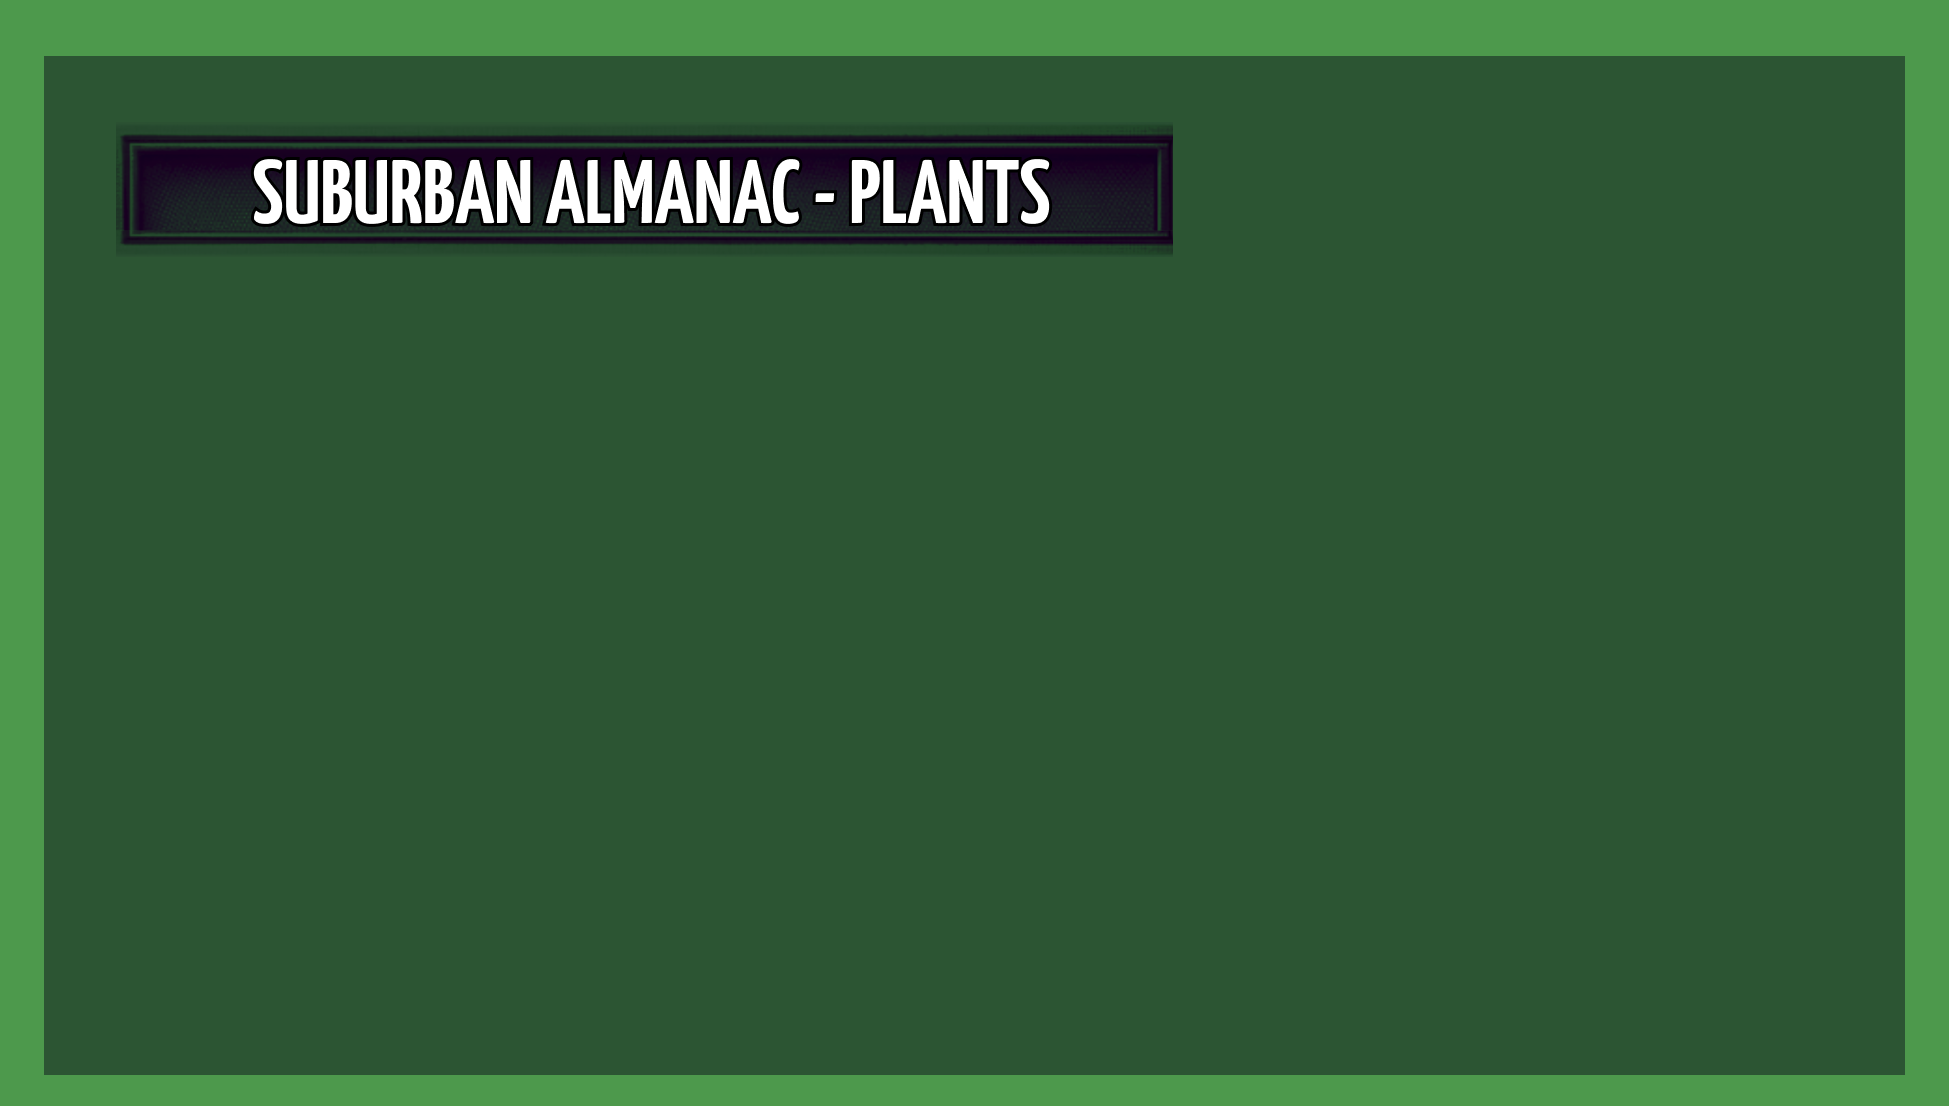
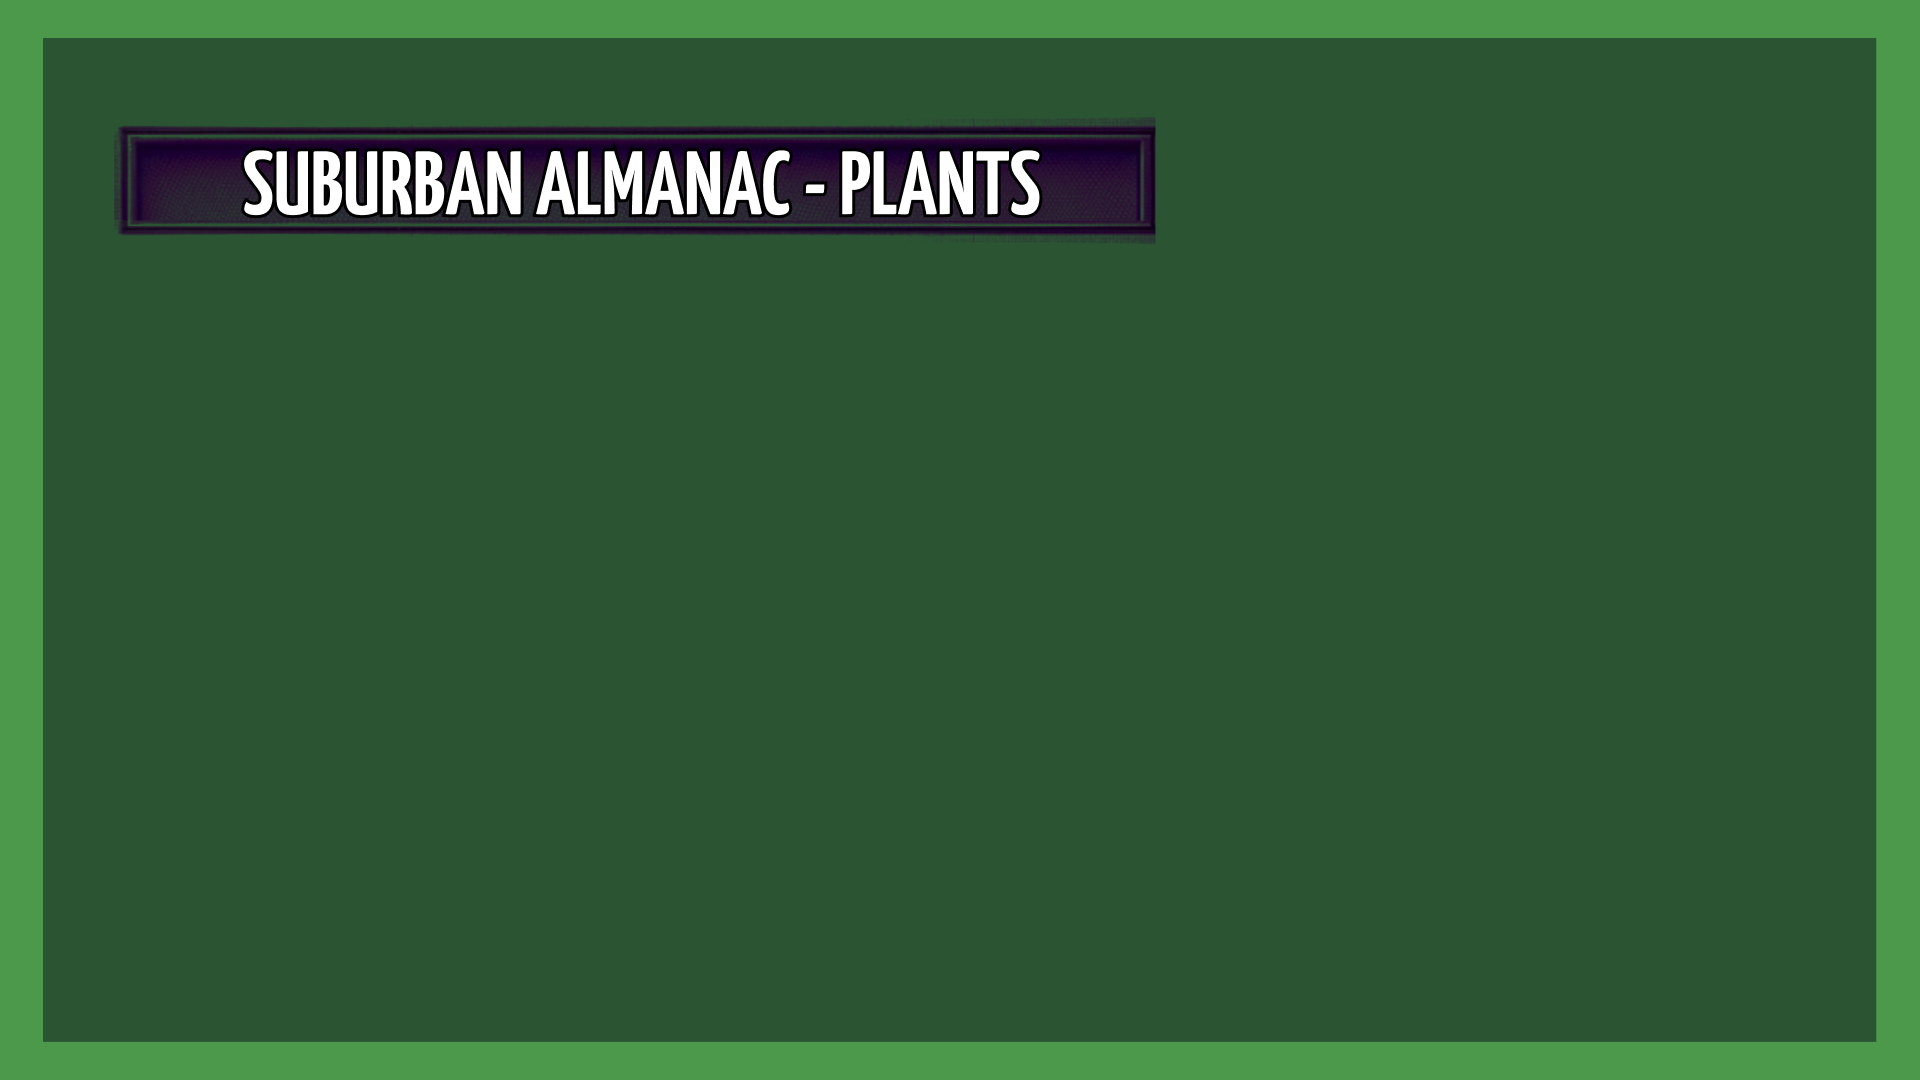
update: screen size

Changed region(s): [[0.0625, 0.0917, 0.5938, 0.2444], [0.0, 0.0306, 1.0, 0.0611], [0.0312, 0.9472, 0.9688, 0.9778]]

diff --git a/src/Game/PlantsListFrame.java b/src/Game/PlantsListFrame.java
@@ -19,10 +19,22 @@ public class PlantsListFrame extends JFrame{
         setExtendedState(JFrame.MAXIMIZED_BOTH);
         setLayout(new BorderLayout());
 
-        // Screen Size
-        screenSize = Toolkit.getDefaultToolkit().getScreenSize();
-        int screenWidth = (int) screenSize.width;
-        int screenHeight = (int) screenSize.height;
+        // Screen Size and scaling factor
+        Dimension screenSize = Toolkit.getDefaultToolkit().getScreenSize();
+        double width = screenSize.getWidth();
+        double height = screenSize.getHeight();
+        double widthFactor = width / 1280;
+        double heightFactor = height / 720;
+        double scaleFactor = Math.min(widthFactor, heightFactor);
+        
+        // Set fixed size based on scale
+        int screenWidth = (int) (1280 * scaleFactor);
+        int screenHeight = (int) (720 * scaleFactor);
+        
+        // Set layout and size
+        setLayout(new BorderLayout());
+        setSize(screenWidth, screenHeight);
+        setLocationRelativeTo(null);  // Center the window
 
         // Layered Pane
         layeredPane = new JLayeredPane();
@@ -40,8 +52,8 @@ public class PlantsListFrame extends JFrame{
         // 10 buttons: PLANTS LIST
         buttonPanel = new JPanel();
         buttonPanel.setOpaque(false);
-        buttonPanel.setLayout(new GridLayout(3, 4, 30, 0));
-        buttonPanel.setBounds(95, 200, 825, 600);
+        buttonPanel.setLayout(new GridLayout(3, 4, 31, 0));
+        buttonPanel.setBounds(95, 210, 825, 600);
         layeredPane.add(buttonPanel, Integer.valueOf(1));
 
         // Sunflower Button -- Show Sunflower Page

diff --git a/src/Game/WelcomingFrame.java b/src/Game/WelcomingFrame.java
@@ -75,7 +75,9 @@ public class WelcomingFrame extends JFrame {
 
         plantsButton.addActionListener(new ActionListener() {
             public void actionPerformed(ActionEvent e) {
-                // masukin page plants
+                PlantsListFrame frame = new PlantsListFrame();
+                frame.setVisible(true);
+                dispose();
             }
         });
 
